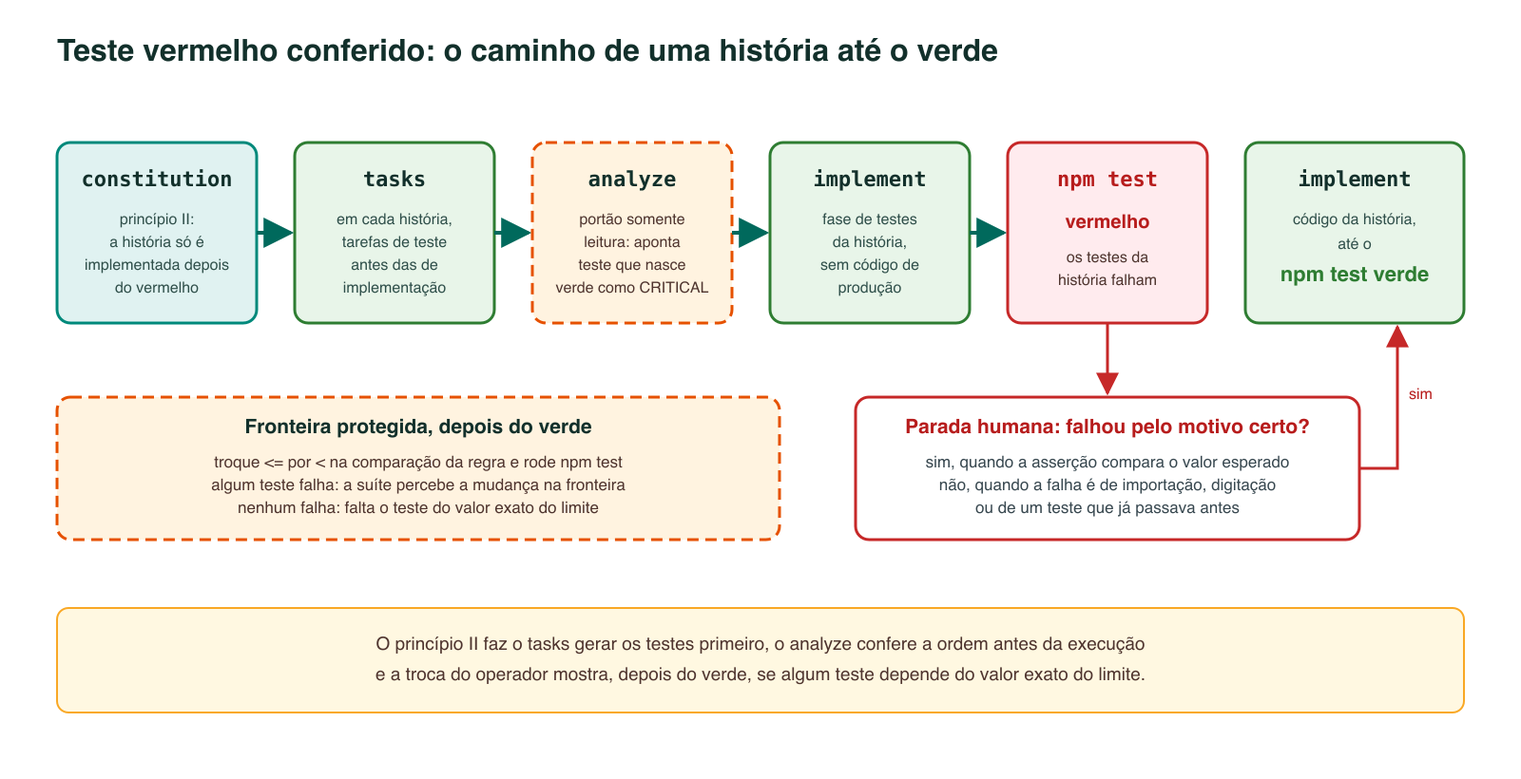
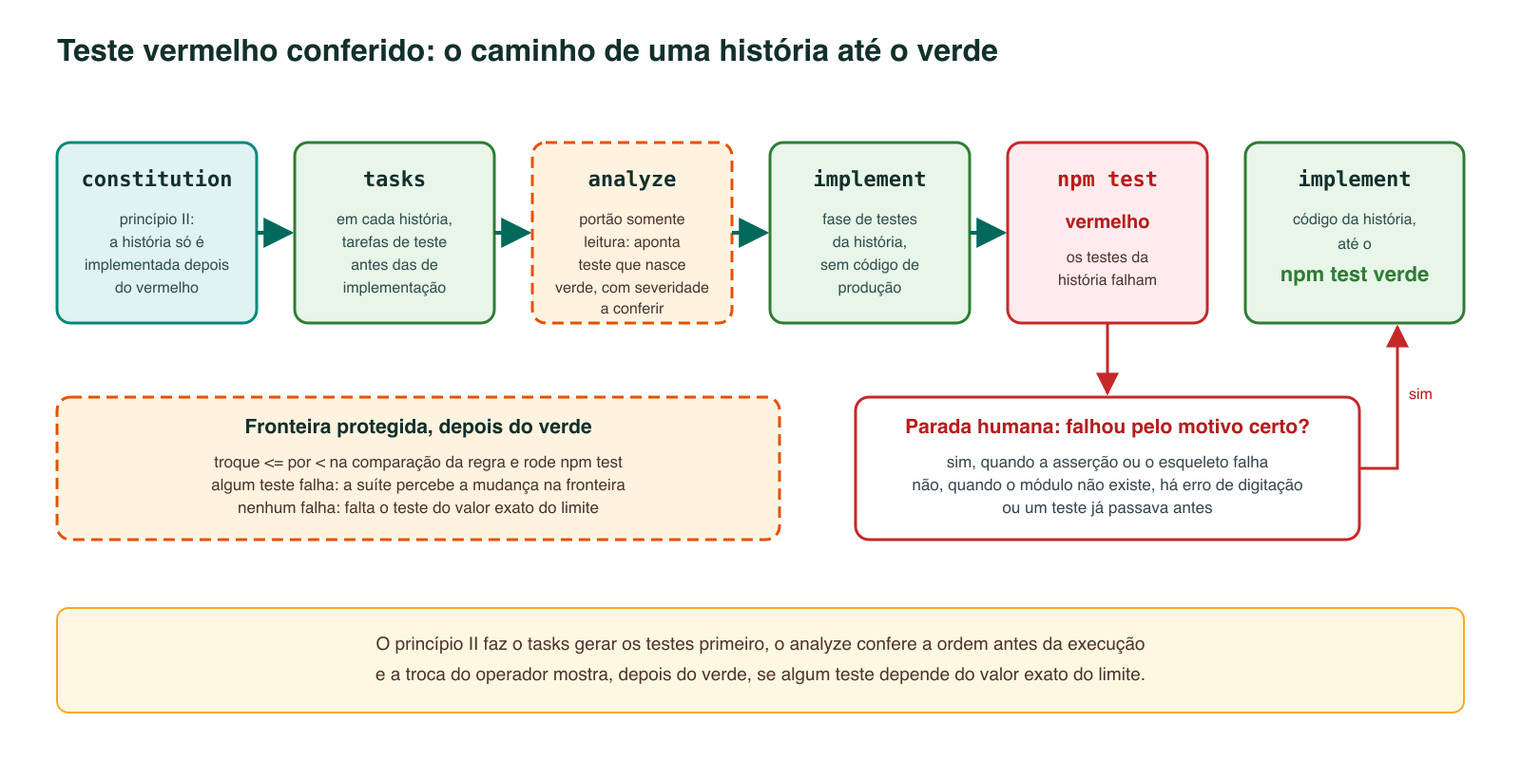
fix: corrige a S6 conforme a revisao final
Vermelho por modulo ausente tratado como vermelho fraco, severidade do
analyze como proposta a conferir, limite do clarify sem generalizacao,
orientacao para as perguntas do specify e do checklist, leitura dos itens
na trava do implement, retomada do tema 1 e descricao do estudo de
Mathews e Nagappan.

Changed region(s): [[0.5938, 0.5793, 0.875, 0.6707], [0.375, 0.3659, 0.4688, 0.4268]]

diff --git a/tests/test_conteudo_sessoes.py b/tests/test_conteudo_sessoes.py
@@ -483,6 +483,49 @@ class SessaoSeisTest(unittest.TestCase):
         self.assertIn("Beck", self.teoria)
 
 
+class RevisaoFinalSessaoSeisTest(unittest.TestCase):
+    """Achados da revisão final de 13/10/2026, conferidos contra o ensaio."""
+
+    def texto(self, nome):
+        return (S6 / nome).read_text(encoding="utf-8")
+
+    def test_vermelho_por_modulo_ausente_tem_orientacao(self):
+        for nome in ("teste-antes-do-codigo-exercicio.md", "teste-antes-do-codigo-conceitos.md"):
+            with self.subTest(pagina=nome):
+                self.assertIn("ERR_MODULE_NOT_FOUND", self.texto(nome))
+        self.assertNotIn("só os testes da primeira história estavam vermelhos", self.texto("teste-antes-do-codigo-exercicio.md"))
+
+    def test_severidade_do_analyze_e_proposta_a_conferir(self):
+        self.assertNotIn("como CRITICAL", (S6 / "assets" / "teste-vermelho-conferido.svg").read_text(encoding="utf-8"))
+        self.assertIn("classificou como HIGH", self.texto("teste-antes-do-codigo-conceitos.md"))
+
+    def test_limite_do_clarify_nao_e_generalizado(self):
+        self.assertIn("pode tratar como resolvida", self.texto("qualidade-da-spec-conceitos.md"))
+        self.assertNotIn("ninguém havia apontado", self.texto("qualidade-da-spec-exemplo-de-aplicacao-de-ia.md"))
+
+    def test_pergunta_do_specify_no_exercicio(self):
+        texto = self.texto("qualidade-da-spec-exercicio.md")
+        self.assertIn("não responda", texto)
+        self.assertIn("respondida no specify", texto)
+
+    def test_perguntas_do_checklist_tem_orientacao(self):
+        for nome in ("qualidade-da-spec-exercicio.md", "qualidade-da-spec-exemplo-de-aplicacao-de-ia.md"):
+            with self.subTest(pagina=nome):
+                self.assertIn("perguntas para delimitar", self.texto(nome))
+
+    def test_trava_do_implement_pede_leitura_dos_itens(self):
+        self.assertIn("CHK004", self.texto("teste-antes-do-codigo-exemplo-de-aplicacao-de-ia.md"))
+        self.assertIn("`yes`", self.texto("teste-antes-do-codigo-exercicio.md"))
+
+    def test_estudo_de_mathews_nao_e_descrito_como_agente(self):
+        self.assertNotIn("Com agentes de codificação, a ordem tem efeito medido", self.texto("teste-antes-do-codigo-conceitos.md"))
+
+    def test_retomada_do_tema_1_lista_os_comandos_que_faltam(self):
+        texto = self.texto("teste-antes-do-codigo-exercicio.md")
+        self.assertIn("reserva de saldo pendente", texto)
+        self.assertIn("/speckit-checklist", texto)
+
+
 class CorrecoesDaSessaoCincoTest(unittest.TestCase):
     """Correções de 13/10/2026 vindas do ensaio da S6 com o Spec Kit 1.1.1."""
 

diff --git a/docs/sessao-06-spec-kit-aprofundado/teste-antes-do-codigo-conceitos.md b/docs/sessao-06-spec-kit-aprofundado/teste-antes-do-codigo-conceitos.md
@@ -8,15 +8,15 @@ O modelo de tarefas da versão 1.1.1 trata os testes como opcionais. As instruç
 
 Um princípio de constitution como "a implementação de uma história só começa depois que `npm test` mostra os testes dessa história falhando" muda essa saída. Com ele, o `tasks` organiza cada história em duas seções, os testes primeiro e a implementação depois, e o `implement` executa as tarefas nessa ordem. O teste da Sessão 5 para um princípio continua valendo: removido o princípio, as seções de teste desaparecem do `tasks.md`, e por isso ele muda a saída.
 
-![Diagrama intitulado Teste vermelho conferido: o caminho de uma história até o verde. Uma linha de caixas mostra a sequência. Constitution, com o princípio II, a história só é implementada depois do vermelho. Tasks, em cada história, tarefas de teste antes das de implementação. Analyze, em caixa tracejada, portão somente leitura que aponta teste que nasce verde como CRITICAL. Implement, fase de testes da história, sem código de produção. Npm test vermelho, em vermelho, os testes da história falham. Do vermelho, uma seta desce para a caixa Parada humana: falhou pelo motivo certo? Sim, quando a asserção compara o valor esperado. Não, quando a falha é de importação, digitação ou de um teste que já passava antes. Da parada humana, uma seta marcada sim sobe para a última caixa, implement, código da história, até o npm test verde. À esquerda, abaixo, uma caixa tracejada com o título Fronteira protegida, depois do verde, diz para trocar menor ou igual por menor na comparação da regra e rodar npm test, e que, se algum teste falha, a suíte percebe a mudança na fronteira, e, se nenhum falha, falta o teste do valor exato do limite. Uma faixa inferior diz que o princípio II faz o tasks gerar os testes primeiro, o analyze confere a ordem antes da execução e a troca do operador mostra, depois do verde, se algum teste depende do valor exato do limite.](assets/teste-vermelho-conferido.png)
+![Diagrama intitulado Teste vermelho conferido: o caminho de uma história até o verde. Uma linha de caixas mostra a sequência. Constitution, com o princípio II, a história só é implementada depois do vermelho. Tasks, em cada história, tarefas de teste antes das de implementação. Analyze, em caixa tracejada, portão somente leitura que aponta teste que nasce verde, com severidade a conferir. Implement, fase de testes da história, sem código de produção. Npm test vermelho, em vermelho, os testes da história falham. Do vermelho, uma seta desce para a caixa Parada humana: falhou pelo motivo certo? Sim, quando a asserção ou o esqueleto falha. Não, quando o módulo não existe, há erro de digitação ou um teste já passava antes. Da parada humana, uma seta marcada sim sobe para a última caixa, implement, código da história, até o npm test verde. À esquerda, abaixo, uma caixa tracejada com o título Fronteira protegida, depois do verde, diz para trocar menor ou igual por menor na comparação da regra e rodar npm test, e que, se algum teste falha, a suíte percebe a mudança na fronteira, e, se nenhum falha, falta o teste do valor exato do limite. Uma faixa inferior diz que o princípio II faz o tasks gerar os testes primeiro, o analyze confere a ordem antes da execução e a troca do operador mostra, depois do verde, se algum teste depende do valor exato do limite.](assets/teste-vermelho-conferido.png)
 
 ## Teste vermelho conferido
 
 [Beck (2002)](../referencia/bibliografia.md#beck-test-driven-development-by-example-2002) descreve o TDD como um ciclo de três passos, vermelho, verde e refatoração, em que o teste é escrito antes do código e precisa falhar antes de passar. A falha inicial é a evidência de que o teste consegue detectar a ausência do comportamento que ele descreve. Um teste que passa desde a primeira execução não demonstrou essa capacidade, e o verde que ele mostra depois da implementação não informa nada sobre o código.
 
-Com agentes de codificação, a ordem tem efeito medido. [Mathews e Nagappan (2024)](../referencia/bibliografia.md#mathews-e-nagappan-test-driven-development-and-llm-based-code-generation-2024) forneceram a modelos como GPT-4 e Llama 3 os casos de teste junto com o enunciado do problema, nos conjuntos de avaliação MBPP e HumanEval, e relataram que a inclusão dos testes aumentou de forma consistente a proporção de soluções corretas. Os dois conjuntos são formados por problemas do tamanho de uma função, e o resultado foi medido nessa escala de tarefa.
+Com modelos de linguagem, fornecer os testes junto com o enunciado tem efeito medido. [Mathews e Nagappan (2024)](../referencia/bibliografia.md#mathews-e-nagappan-test-driven-development-and-llm-based-code-generation-2024) forneceram a modelos como GPT-4 e Llama 3 os casos de teste junto com o enunciado do problema, nos conjuntos de avaliação MBPP e HumanEval, e relataram que a inclusão dos testes aumentou de forma consistente a proporção de soluções corretas. Os dois conjuntos são formados por problemas do tamanho de uma função, e o resultado foi medido nessa escala de tarefa.
 
-Conferir o vermelho exige ler o motivo da falha, além de contar as falhas. A falha esperada é a de uma asserção que compara o valor calculado com o valor que a regra determina, ou a de uma função que ainda não foi implementada. Três outras falhas indicam problema no próprio teste: erro de importação, que mostra um arquivo ou nome inexistente, erro de digitação no teste, e teste que passa enquanto os vizinhos falham, porque o comportamento que ele verifica já existia.
+Conferir o vermelho exige ler o motivo da falha, além de contar as falhas. A falha esperada é a de uma asserção que compara o valor calculado com o valor que a regra determina, ou a de uma função que existe como esqueleto e ainda não foi implementada. Um erro de importação, como `ERR_MODULE_NOT_FOUND` para um arquivo que a própria história vai criar, produz um vermelho fraco: o arquivo de teste nem chega a executar as asserções, e o vermelho não prova que elas falham. Nesse caso, o caminho é pedir ao agente os esqueletos dos módulos, com funções que lançam um erro de não implementado, e rodar `npm test` de novo antes de seguir. Erro de digitação no teste e teste que passa enquanto os vizinhos falham, porque o comportamento que ele verifica já existia, indicam problema no próprio teste.
 
 Dois antipadrões aparecem com frequência quando o agente conduz o ciclo. O primeiro é o teste que nunca falhou, gerado depois do código ou dependente de um valor que já estava pronto antes da história. O segundo é o agente que altera o teste para que ele passe, mantendo o código como estava, o que transforma a especificação executável numa descrição do que o código faz. A parada humana depois do vermelho existe para os dois casos, e o `git diff` dos arquivos de teste entre o commit do vermelho e o do verde mostra o segundo.
 
@@ -33,7 +33,7 @@ O relatório classifica os achados em seis categorias, que são duplicação, am
 | MEDIUM | variação de terminologia, requisito não funcional sem tarefa, caso de borda subespecificado |
 | LOW | ajuste de redação e redundância que não afeta a ordem de execução |
 
-Toda violação da constitution é classificada como CRITICAL, e as instruções afirmam que o princípio não pode ser diluído nem reinterpretado durante a análise. Com um princípio de teste vermelho, isso significa que o `analyze` aponta como crítica qualquer tarefa que coloque código de produção antes dos testes da história, ou um teste que já passaria no momento em que for escrito. O relatório traz também uma tabela de cobertura, com cada requisito e as tarefas que o atendem, e termina perguntando se o usuário quer sugestões concretas de correção.
+As instruções mandam classificar toda violação da constitution como CRITICAL e afirmam que o princípio não pode ser diluído nem reinterpretado durante a análise. Com um princípio de teste vermelho, uma tarefa que coloca código de produção antes dos testes da história, ou um teste que já passaria no momento em que for escrito, deveria sair como crítica. No ensaio de 13/10/2026, o agente classificou como CRITICAL dois achados desse tipo e classificou como HIGH um terceiro, também do princípio II, sobre cenários que nasceriam verdes, e por isso a severidade é uma proposta do agente a conferir contra a constitution. O relatório traz também uma tabela de cobertura, com cada requisito e as tarefas que o atendem, e termina perguntando se o usuário quer sugestões concretas de correção.
 
 ## Implement por fase
 

diff --git a/docs/sessao-06-spec-kit-aprofundado/teste-antes-do-codigo-exercicio.md b/docs/sessao-06-spec-kit-aprofundado/teste-antes-do-codigo-exercicio.md
@@ -9,7 +9,7 @@ cd fundep-saldo-rubrica
 git log --oneline
 ```
 
-O histórico precisa terminar no commit `plan e checklist` do exercício do Tema 1, sobre o saldo da rubrica no sistema de pagamentos de projetos, cenário inspirado no domínio da FUNDEP. Se o exercício anterior não terminou, rode os passos dele até esse commit antes de seguir. No Codex CLI, os comandos de chat deste exercício começam com cifrão (`$speckit-...`) no lugar da barra.
+O histórico precisa terminar no commit `plan e checklist` do exercício do Tema 1, sobre o saldo da rubrica no sistema de pagamentos de projetos, cenário inspirado no domínio da FUNDEP, ou no commit `reserva de saldo pendente`, para quem o fez. Se o exercício anterior parou antes, rode no chat só os comandos que faltam, na ordem `/speckit-clarify`, `/speckit-plan` e `/speckit-checklist`, com um commit depois de cada um. No ensaio, esses três comandos somaram cerca de sete minutos de espera, que saem do tempo deste exercício. No Codex CLI, os comandos de chat deste exercício começam com cifrão (`$speckit-...`) no lugar da barra.
 
 ## Passo 2: gere as tarefas
 
@@ -50,7 +50,7 @@ Digite no chat do agente:
 /speckit-implement Execute só as fases de setup e fundação e as tarefas de teste da primeira história, e pare.
 ```
 
-O `implement` vai parar na trava do checklist, porque os itens do `checklists/` gerado no Tema 1 estão desmarcados. Leia os números da tabela que ele mostra e responda `sim` no chat.
+O `implement` vai parar na trava do checklist, porque os itens do `checklists/` gerado no Tema 1 estão desmarcados. Antes de responder, leia os itens que o agente destacar como lacunas que afetam os testes da primeira história e anote-os. Responda `sim` ou `yes`, conforme o idioma da pergunta, se nenhum deles mudar o que os testes da primeira história verificam, e `não` se algum mudar, levando o item ao PO antes de seguir.
 
 ## Passo 5: confira o vermelho
 
@@ -60,7 +60,7 @@ Digite no terminal:
 npm test
 ```
 
-Leia o resumo no fim da saída e o motivo das primeiras falhas. No ensaio deste exercício, feito em 13/10/2026, o resumo mostrou 52 testes com 46 passando e 6 falhando, porque a fundação já estava implementada e só os testes da primeira história estavam vermelhos.
+Leia o resumo no fim da saída e o motivo das primeiras falhas. No ensaio deste exercício, feito em 13/10/2026, o resumo mostrou 52 testes com 46 passando e 6 falhando, e as 6 falhas eram `ERR_MODULE_NOT_FOUND`, porque os arquivos das regras da primeira história ainda não existiam, o que produz um vermelho fraco, já que nenhuma asserção da história chegou a executar. Se o seu vermelho tiver esse motivo, peça ao agente os esqueletos dos módulos, com funções que lancem um erro de não implementado, e rode `npm test` de novo até que as falhas venham das asserções ou dos esqueletos.
 
 ## Passo 6: implemente até o verde
 

diff --git a/docs/sessao-06-spec-kit-aprofundado/sintese-e-referencias.md b/docs/sessao-06-spec-kit-aprofundado/sintese-e-referencias.md
@@ -5,12 +5,12 @@ A sessão retomou o fluxo do GitHub Spec Kit com os três comandos opcionais, `c
 ## Ideias essenciais
 
 1. **Cada comando opcional examina o que os anteriores gravaram.** O `clarify` lê a spec antes do plano, o `checklist` lê os requisitos depois do plano, e o `analyze` lê spec, plano e tarefas antes da implementação, sem alterar nenhum arquivo.
-2. **O `clarify` pergunta só o que a spec ainda marca como aberto.** Uma decisão que o `specify` registrou em *Assumptions* ou declarou fora do escopo aparece como resolvida, e só a leitura dessas seções a encontra.
+2. **O `clarify` pergunta o que o agente considera aberto.** Uma decisão que o `specify` registrou em *Assumptions* ou declarou fora do escopo pode ser tratada como resolvida, e só a leitura dessas seções garante que ela seja encontrada.
 3. **A recomendação do `clarify` é uma proposta do agente.** Aceitá-la grava na spec, como resposta do PO, uma decisão que pode alterar o pedido original, e a pergunta a fazer antes de cada "yes" é quem tem autoridade sobre aquela regra.
 4. **O checklist testa a escrita dos requisitos.** Os itens `CHK` perguntam se o requisito é completo e verificável, a marcação `[x]` é decisão de quem revisa, e o `implement` para quando encontra item desmarcado.
 5. **O princípio de teste vermelho muda as tarefas.** Sem ele, o modelo da versão 1.1.1 trata os testes como opcionais, e com ele cada história ganha uma seção de testes antes da implementação.
-6. **O `analyze` aponta o teste que nasce verde.** Uma violação da constitution é sempre CRITICAL, e com o princípio de teste vermelho isso inclui o teste que passaria antes de existir código da história.
-7. **Conferir o vermelho é ler o motivo da falha.** Asserção sobre o valor esperado e função ainda não implementada são motivos certos, e erro de importação, erro de digitação e teste que já passava indicam problema no teste.
+6. **O `analyze` aponta o teste que nasce verde.** As instruções do comando mandam classificar como CRITICAL toda violação da constitution, e no ensaio o agente classificou como HIGH um dos achados do princípio de teste vermelho, o que faz da severidade uma proposta a conferir.
+7. **Conferir o vermelho é ler o motivo da falha.** Asserção sobre o valor esperado e esqueleto ainda não implementado são motivos certos, módulo inexistente (`ERR_MODULE_NOT_FOUND`) é um vermelho fraco que pede os esqueletos e uma nova execução, e erro de digitação e teste que já passava indicam problema no teste.
 8. **A troca do operador mostra se a fronteira tem teste.** Trocar `<=` por `<` muda o resultado só no valor exato do limite, e se nenhum teste falha a suíte não cobre esse valor.
 
 ## Checklist da sessão

diff --git a/docs/sessao-06-spec-kit-aprofundado/qualidade-da-spec-exercicio.md b/docs/sessao-06-spec-kit-aprofundado/qualidade-da-spec-exercicio.md
@@ -60,7 +60,7 @@ para ele. O saldo da rubrica é o valor aprovado menos os pagamentos já
 liquidados.
 ```
 
-O agente cria a pasta `specs/001-...` com a `spec.md`. Não leia o arquivo inteiro, porque as perguntas do Passo 7 indicam as seções a ler, e registre a spec com os dois comandos abaixo antes do passo seguinte:
+O agente cria a pasta `specs/001-...` com a `spec.md` e pode terminar com uma pergunta, como "Sua escolha: responda, por exemplo, 'P1: B'", sobre um ponto que marcou como `[NEEDS CLARIFICATION]`. Se isso acontecer, não responda a essa pergunta, porque ela é a matéria do `clarify` no passo seguinte. Não leia o arquivo inteiro, porque as perguntas do Passo 7 indicam as seções a ler, e registre a spec com os dois comandos abaixo antes do passo seguinte:
 
 ```bash
 git add -A
@@ -99,6 +99,8 @@ Enquanto o plano é gerado, avance para o Passo 7 nas perguntas que dependem só
 /speckit-checklist requisitos de saldo de rubrica
 ```
 
+Se o agente fizer perguntas para delimitar o checklist, sobre foco, profundidade ou público, responda com a opção recomendada ou com a palavra "padrão".
+
 E registre os dois artefatos:
 
 ```bash
@@ -112,7 +114,7 @@ Leia só as seções indicadas na tabela.
 
 | # | Onde ler | Pergunta | Resposta |
 |---|---|---|---|
-| 1 | `## Clarifications` da `spec.md` | O `clarify` perguntou se um pagamento solicitado e ainda não liquidado reserva saldo da rubrica? Se não perguntou, essa decisão aparece em *Assumptions*? | perguntou / decidido em *Assumptions* / ausente |
+| 1 | `## Clarifications` da `spec.md` | O `clarify` perguntou se um pagamento solicitado e ainda não liquidado reserva saldo da rubrica? Se não perguntou, essa decisão aparece em *Assumptions*? | perguntou / respondida no specify / decidido em *Assumptions* / ausente |
 | 2 | Sua anotação do Passo 5 | Qual recomendação do agente você recusou, ou qual aceitou mesmo alterando uma frase do pedido, e por quê? | cite a pergunta e a frase do pedido |
 | 3 | `checklists/` | Qual item do checklist aponta algo que a spec ainda não decide, e quem precisa decidir? | cite o `CHK` e quem decide |
 

diff --git a/docs/sessao-06-spec-kit-aprofundado/qualidade-da-spec-exemplo-de-aplicacao-de-ia.md b/docs/sessao-06-spec-kit-aprofundado/qualidade-da-spec-exemplo-de-aplicacao-de-ia.md
@@ -106,7 +106,7 @@ git add -A
 git commit -m "clarify"
 ```
 
-**O que o agente gerou:** a primeira pergunta chegou em cerca de 20 segundos e tratou de uma lacuna que o pedido tinha e que ninguém havia apontado, o momento em que o sistema consulta a lista de recorrentes, aqui com as opções resumidas:
+**O que o agente gerou:** a primeira pergunta chegou em cerca de 20 segundos e tratou de uma decisão que o próprio `specify` tinha tomado e listado ao final da resposta, na seção "Decisões que tomei e que você deve confirmar", o momento em que o sistema consulta a lista de recorrentes, aqui com as opções resumidas:
 
 ```text
 **Question:** Quando o pedido é registrado e quando se verifica se o
@@ -155,6 +155,8 @@ Depois do commit do plano, digite:
 /speckit-checklist requisitos de aprovação de pagamento
 ```
 
+Se o agente fizer perguntas para delimitar o checklist, sobre foco, profundidade ou público, responda com a opção recomendada ou com a palavra "padrão". Na execução registrada abaixo ele não fez nenhuma, porque considerou o foco do pedido suficiente.
+
 E, no terminal:
 
 ```bash
@@ -175,7 +177,7 @@ Nenhum dos 39 itens pergunta se o código funciona, porque ainda não existe có
 
 ## O que levar para o exercício
 
-O exemplo mostra três achados que o exercício pede para procurar na própria spec: o `clarify` encontrou uma lacuna real e fez uma recomendação que alterou uma regra, deixou sem pergunta tudo o que o `specify` já tinha decidido em *Assumptions*, e o checklist apontou lacunas que continuavam na spec depois das duas respostas.
+O exemplo mostra três achados que o exercício pede para procurar na própria spec: o `clarify` perguntou sobre uma decisão do `specify` e fez uma recomendação que alterou uma regra, deixou sem pergunta outras duas decisões registradas em *Assumptions* e no escopo, e o checklist apontou lacunas que continuavam na spec depois das duas respostas.
 
 Os trechos vêm de uma execução real com Spec Kit 1.1.1 e Claude Code, em 13/10/2026. Outra execução produz texto e perguntas diferentes, e os três tipos de achado costumam se repetir.
 

diff --git a/docs/sessao-06-spec-kit-aprofundado/teste-antes-do-codigo-exemplo-de-aplicacao-de-ia.md b/docs/sessao-06-spec-kit-aprofundado/teste-antes-do-codigo-exemplo-de-aplicacao-de-ia.md
@@ -90,7 +90,7 @@ Digite no chat do agente:
 **Quer que eu siga com a implementação mesmo assim? (sim/não)**
 ```
 
-Os 39 itens desmarcados são os do checklist gerado no exemplo do Tema 1, e nenhum deles muda os testes da primeira história. Responda no chat:
+Os 39 itens desmarcados são os do checklist gerado no exemplo do Tema 1. Logo abaixo da tabela, o agente destacou quatro deles como lacunas que afetam o que os testes da primeira história vão verificar: CHK002, a spec não diz quem pode liquidar um pagamento, CHK003, o código `DADOS_INCOMPLETOS` existe no modelo de dados sem requisito que o exija, CHK004, não há requisito para solicitante não identificado, e CHK006, a spec não diz se o histórico registra as recusas de registro. Nenhum dos quatro altera as regras RN-01, RN-04 e RN-05, que os testes da primeira história verificam, e por isso a resposta foi `sim`, com os quatro itens anotados para o PO:
 
 ```text
 sim
@@ -115,7 +115,7 @@ npm test
   - 500000
 ```
 
-As duas falhas têm o motivo certo para esta etapa: as funções ainda não existem, e o valor do limite ainda não foi definido, como pediu a correção do C2. Uma falha por `ERR_MODULE_NOT_FOUND` ou por erro de digitação no nome de uma função indicaria problema no teste, e o próprio agente registrou que nenhuma delas apareceu.
+As duas falhas têm o motivo certo para esta etapa: as funções existem como esqueletos e ainda não foram implementadas, e o valor do limite ainda não foi definido, como pediu a correção do C2. O agente registrou que não houve nenhum `ERR_MODULE_NOT_FOUND`, porque os esqueletos foram criados na fundação, antes dos testes, e por isso as asserções chegaram a executar.
 
 ## Passo 6: implemente até o verde
 

diff --git a/docs/sessao-06-spec-kit-aprofundado/qualidade-da-spec-conceitos.md b/docs/sessao-06-spec-kit-aprofundado/qualidade-da-spec-conceitos.md
@@ -26,7 +26,7 @@ A Sessão 3 apresentou a [intervenção socrática](../sessao-03-exploracao-espe
 
 O antipadrão correspondente é responder "yes" a todas as perguntas. Cada aceitação sem leitura grava na spec, como resposta do PO, uma decisão tomada pelo agente, e a seção `## Clarifications` passa a dar aparência de validação a algo que ninguém validou. A pergunta que deve ser feita diante de cada recomendação é se quem responde tem autoridade sobre aquela regra e se a opção recomendada altera o que o pedido original dizia.
 
-O limite principal do comando está no ponto de partida da varredura. O `clarify` pergunta sobre o que a spec ainda marca como parcial ou ausente, e uma decisão que o `specify` já registrou como suposição ou como item fora do escopo aparece como resolvida. Por isso a leitura das seções de suposições e de escopo continua necessária depois do `clarify`, e é nela que aparecem as decisões que o agente tomou sem perguntar.
+O limite principal do comando está no ponto de partida da varredura. O `clarify` pergunta sobre o que considera parcial ou ausente na spec, e pode tratar como resolvida uma decisão que o `specify` já registrou como suposição ou como item fora do escopo. O comportamento varia de uma execução para outra: no ensaio de 13/10/2026, o `clarify` perguntou sobre uma suposição que o `specify` tinha pedido para confirmar e não perguntou sobre outras duas, a reprovação, declarada fora do escopo, e a definição de quem pode aprovar, registrada como suposição. Por isso a leitura das seções de suposições e de escopo continua necessária depois do `clarify`, e é nela que aparecem as decisões que o agente tomou sem perguntar.
 
 ## Checklist
 

diff --git a/docs/sessao-06-spec-kit-aprofundado/index.md b/docs/sessao-06-spec-kit-aprofundado/index.md
@@ -60,6 +60,6 @@ No ensaio de 13/10/2026, os comandos levaram de 20 segundos a pouco mais de 3 mi
 Os exercícios pedem a leitura de seções específicas dos artefatos, nunca do arquivo inteiro, porque a spec passa de cem linhas e o `tasks.md` passa de duzentas.
 
 !!! warning "Limite da IA nesta sessão"
-    O `clarify` pergunta apenas o que o agente considera em aberto. Uma decisão que a spec já tomou sozinha, como declarar um caso fora do escopo, não passa pelo `clarify`, e só a leitura das suposições e do escopo a encontra. O `analyze` aponta incoerências entre os artefatos, e quem decide quais delas corrigir é o participante.
+    O `clarify` pergunta apenas o que o agente considera em aberto. Uma decisão que a spec já tomou sozinha, como declarar um caso fora do escopo, pode não passar pelo `clarify`, e só a leitura das suposições e do escopo garante que ela seja encontrada. O `analyze` aponta incoerências entre os artefatos, e quem decide quais delas corrigir é o participante.
 
 **Próxima página:** [Contexto da prática](contexto-da-pratica.md).
